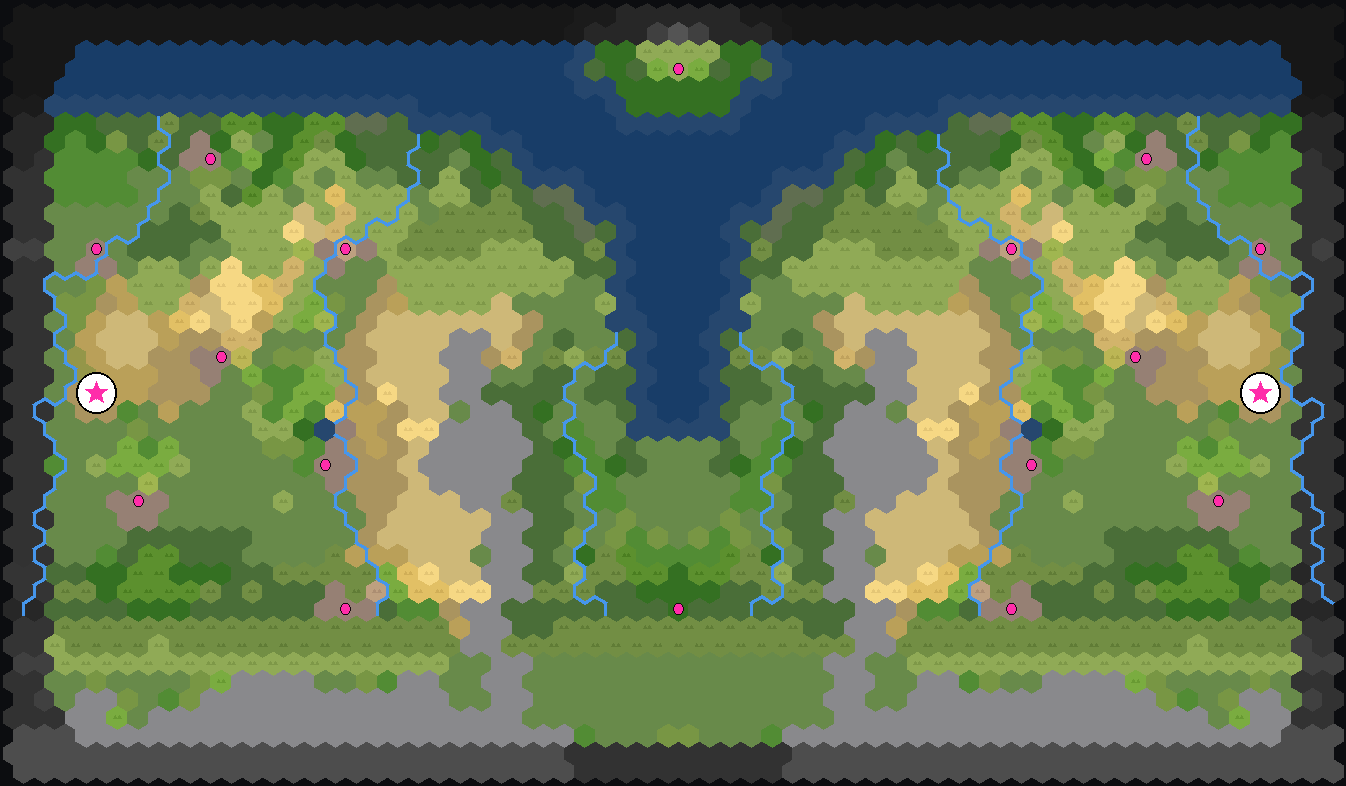
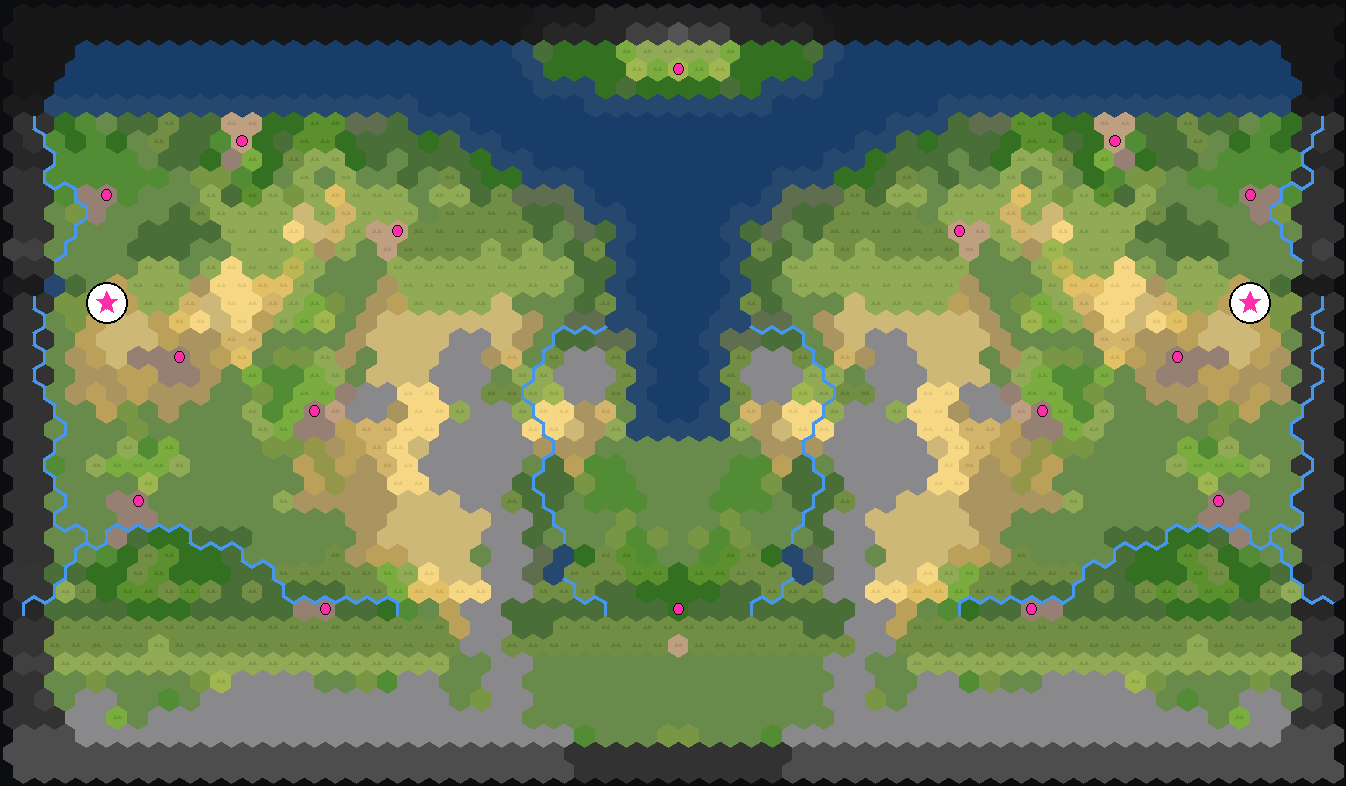
2.5x-wide half-island; over-budget tribe sites shed to free, not barb
The volcano half-island now stretches 2.5x across (R 2.7-3.0, ~54-65
tiles, spanning 13-16 columns of the sea edge); the moat's outer shell
re-balanced so the land-to-land gap stays >= 6 in every direction.
When a high site count pushes the side tribes over the game's
~2-settlements-per-tribe budget, the extra sites are now shed to FREE
instead of barbarian, keeping the mirrored 2-start/2-free/4-barb layout.

diff --git a/atlas/index.html b/atlas/index.html
@@ -34,7 +34,7 @@ h1 { margin: 0 0 4px; font: 600 18px/1.2 ui-monospace, Menlo, monospace;
 <header><h1>Caldera Bay — Climate Atlas</h1>
 <div class="sub">8 Mediterranean · 8 Temperate · 8 Northern (same seeds 1–8 per regime) ·
 <code>Climate (latitude)</code> map option</div></header>
-<h2 class="section">Mediterranean (warm) — 8 gens</h2><div class="grid"><div class="card"><img src="maps/Caldera_Bay_smallest_Mediterranean-1.png" loading="lazy"><div class="meta"><div class="seed">seed Mediterranean-1</div><div class="chips"><span class="chip">64×43</span><span class="chip">12% flat-lush</span><span class="chip">water 667</span><span class="chip">mtn 387</span><span class="chip bad">rivers 192</span><span class="chip bad">forest 407</span><span class="chip ok">2 starts</span><span class="chip ok">mirror-sym</span><span class="chip">sites 18</span><span class="chip">tribes 12</span><span class="chip">res 112</span></div></div></div><div class="card"><img src="maps/Caldera_Bay_smallest_Mediterranean-2.png" loading="lazy"><div class="meta"><div class="seed">seed Mediterranean-2</div><div class="chips"><span class="chip">64×43</span><span class="chip">10% flat-lush</span><span class="chip">water 543</span><span class="chip">mtn 323</span><span class="chip bad">rivers 198</span><span class="chip bad">forest 383</span><span class="chip ok">2 starts</span><span class="chip ok">mirror-sym</span><span class="chip">sites 16</span><span class="chip">tribes 12</span><span class="chip">res 93</span></div></div></div><div class="card"><img src="maps/Caldera_Bay_smallest_Mediterranean-3.png" loading="lazy"><div class="meta"><div class="seed">seed Mediterranean-3</div><div class="chips"><span class="chip">64×43</span><span class="chip">16% flat-lush</span><span class="chip">water 592</span><span class="chip">mtn 273</span><span class="chip bad">rivers 165</span><span class="chip bad">forest 303</span><span class="chip ok">2 starts</span><span class="chip ok">mirror-sym</span><span class="chip">sites 14</span><span class="chip">tribes 10</span><span class="chip">res 97</span></div></div></div><div class="card"><img src="maps/Caldera_Bay_smallest_Mediterranean-4.png" loading="lazy"><div class="meta"><div class="seed">seed Mediterranean-4</div><div class="chips"><span class="chip">64×43</span><span class="chip">12% flat-lush</span><span class="chip">water 504</span><span class="chip">mtn 345</span><span class="chip bad">rivers 224</span><span class="chip bad">forest 395</span><span class="chip ok">2 starts</span><span class="chip ok">mirror-sym</span><span class="chip">sites 18</span><span class="chip">tribes 12</span><span class="chip">res 100</span></div></div></div><div class="card"><img src="maps/Caldera_Bay_smallest_Mediterranean-5.png" loading="lazy"><div class="meta"><div class="seed">seed Mediterranean-5</div><div class="chips"><span class="chip">64×43</span><span class="chip">9% flat-lush</span><span class="chip">water 597</span><span class="chip">mtn 377</span><span class="chip bad">rivers 262</span><span class="chip bad">forest 399</span><span class="chip ok">2 starts</span><span class="chip ok">mirror-sym</span><span class="chip">sites 14</span><span class="chip">tribes 10</span><span class="chip">res 123</span></div></div></div><div class="card"><img src="maps/Caldera_Bay_smallest_Mediterranean-6.png" loading="lazy"><div class="meta"><div class="seed">seed Mediterranean-6</div><div class="chips"><span class="chip">64×43</span><span class="chip">10% flat-lush</span><span class="chip">water 536</span><span class="chip">mtn 271</span><span class="chip bad">rivers 192</span><span class="chip bad">forest 361</span><span class="chip ok">2 starts</span><span class="chip ok">mirror-sym</span><span class="chip">sites 16</span><span class="chip">tribes 12</span><span class="chip">res 110</span></div></div></div><div class="card"><img src="maps/Caldera_Bay_smallest_Mediterranean-7.png" loading="lazy"><div class="meta"><div class="seed">seed Mediterranean-7</div><div class="chips"><span class="chip">64×43</span><span class="chip">15% flat-lush</span><span class="chip">water 547</span><span class="chip">mtn 261</span><span class="chip bad">rivers 183</span><span class="chip bad">forest 357</span><span class="chip ok">2 starts</span><span class="chip ok">mirror-sym</span><span class="chip">sites 18</span><span class="chip">tribes 12</span><span class="chip">res 112</span></div></div></div><div class="card"><img src="maps/Caldera_Bay_smallest_Mediterranean-8.png" loading="lazy"><div class="meta"><div class="seed">seed Mediterranean-8</div><div class="chips"><span class="chip">64×43</span><span class="chip">12% flat-lush</span><span class="chip">water 608</span><span class="chip">mtn 328</span><span class="chip bad">rivers 231</span><span class="chip bad">forest 308</span><span class="chip ok">2 starts</span><span class="chip ok">mirror-sym</span><span class="chip">sites 16</span><span class="chip">tribes 12</span><span class="chip">res 104</span></div></div></div></div><h2 class="section">Temperate — 8 gens</h2><div class="grid"><div class="card"><img src="maps/Caldera_Bay_smallest_Temperate-1.png" loading="lazy"><div class="meta"><div class="seed">seed Temperate-1</div><div class="chips"><span class="chip">64×43</span><span class="chip">11% flat-lush</span><span class="chip">water 667</span><span class="chip">mtn 389</span><span class="chip bad">rivers 192</span><span class="chip bad">forest 433</span><span class="chip ok">2 starts</span><span class="chip ok">mirror-sym</span><span class="chip">sites 18</span><span class="chip">tribes 12</span><span class="chip">res 108</span></div></div></div><div class="card"><img src="maps/Caldera_Bay_smallest_Temperate-2.png" loading="lazy"><div class="meta"><div class="seed">seed Temperate-2</div><div class="chips"><span class="chip">64×43</span><span class="chip">12% flat-lush</span><span class="chip">water 543</span><span class="chip">mtn 323</span><span class="chip bad">rivers 198</span><span class="chip bad">forest 480</span><span class="chip ok">2 starts</span><span class="chip ok">mirror-sym</span><span class="chip">sites 16</span><span class="chip">tribes 12</span><span class="chip">res 129</span></div></div></div><div class="card"><img src="maps/Caldera_Bay_smallest_Temperate-3.png" loading="lazy"><div class="meta"><div class="seed">seed Temperate-3</div><div class="chips"><span class="chip">64×43</span><span class="chip">16% flat-lush</span><span class="chip">water 592</span><span class="chip">mtn 271</span><span class="chip bad">rivers 165</span><span class="chip bad">forest 315</span><span class="chip ok">2 starts</span><span class="chip ok">mirror-sym</span><span class="chip">sites 14</span><span class="chip">tribes 10</span><span class="chip">res 108</span></div></div></div><div class="card"><img src="maps/Caldera_Bay_smallest_Temperate-4.png" loading="lazy"><div class="meta"><div class="seed">seed Temperate-4</div><div class="chips"><span class="chip">64×43</span><span class="chip">13% flat-lush</span><span class="chip">water 504</span><span class="chip">mtn 345</span><span class="chip bad">rivers 224</span><span class="chip bad">forest 428</span><span class="chip ok">2 starts</span><span class="chip ok">mirror-sym</span><span class="chip">sites 16</span><span class="chip">tribes 12</span><span class="chip">res 122</span></div></div></div><div class="card"><img src="maps/Caldera_Bay_smallest_Temperate-5.png" loading="lazy"><div class="meta"><div class="seed">seed Temperate-5</div><div class="chips"><span class="chip">64×43</span><span class="chip">9% flat-lush</span><span class="chip">water 597</span><span class="chip">mtn 377</span><span class="chip bad">rivers 262</span><span class="chip bad">forest 468</span><span class="chip ok">2 starts</span><span class="chip ok">mirror-sym</span><span class="chip">sites 18</span><span class="chip">tribes 12</span><span class="chip">res 98</span></div></div></div><div class="card"><img src="maps/Caldera_Bay_smallest_Temperate-6.png" loading="lazy"><div class="meta"><div class="seed">seed Temperate-6</div><div class="chips"><span class="chip">64×43</span><span class="chip">11% flat-lush</span><span class="chip">water 536</span><span class="chip">mtn 271</span><span class="chip bad">rivers 192</span><span class="chip bad">forest 374</span><span class="chip ok">2 starts</span><span class="chip ok">mirror-sym</span><span class="chip">sites 16</span><span class="chip">tribes 12</span><span class="chip">res 106</span></div></div></div><div class="card"><img src="maps/Caldera_Bay_smallest_Temperate-7.png" loading="lazy"><div class="meta"><div class="seed">seed Temperate-7</div><div class="chips"><span class="chip">64×43</span><span class="chip">16% flat-lush</span><span class="chip">water 547</span><span class="chip">mtn 261</span><span class="chip bad">rivers 183</span><span class="chip bad">forest 371</span><span class="chip ok">2 starts</span><span class="chip ok">mirror-sym</span><span class="chip">sites 16</span><span class="chip">tribes 12</span><span class="chip">res 116</span></div></div></div><div class="card"><img src="maps/Caldera_Bay_smallest_Temperate-8.png" loading="lazy"><div class="meta"><div class="seed">seed Temperate-8</div><div class="chips"><span class="chip">64×43</span><span class="chip">13% flat-lush</span><span class="chip">water 608</span><span class="chip">mtn 328</span><span class="chip bad">rivers 231</span><span class="chip bad">forest 372</span><span class="chip ok">2 starts</span><span class="chip ok">mirror-sym</span><span class="chip">sites 18</span><span class="chip">tribes 12</span><span class="chip">res 107</span></div></div></div></div><h2 class="section">Northern (cold) — 8 gens</h2><div class="grid"><div class="card"><img src="maps/Caldera_Bay_smallest_Northern-1.png" loading="lazy"><div class="meta"><div class="seed">seed Northern-1</div><div class="chips"><span class="chip">64×43</span><span class="chip">11% flat-lush</span><span class="chip">water 667</span><span class="chip">mtn 383</span><span class="chip bad">rivers 192</span><span class="chip bad">forest 436</span><span class="chip ok">2 starts</span><span class="chip ok">mirror-sym</span><span class="chip">sites 18</span><span class="chip">tribes 12</span><span class="chip">res 99</span></div></div></div><div class="card"><img src="maps/Caldera_Bay_smallest_Northern-2.png" loading="lazy"><div class="meta"><div class="seed">seed Northern-2</div><div class="chips"><span class="chip">64×43</span><span class="chip">7% flat-lush</span><span class="chip">water 543</span><span class="chip">mtn 323</span><span class="chip bad">rivers 198</span><span class="chip bad">forest 446</span><span class="chip ok">2 starts</span><span class="chip ok">mirror-sym</span><span class="chip">sites 18</span><span class="chip">tribes 12</span><span class="chip">res 121</span></div></div></div><div class="card"><img src="maps/Caldera_Bay_smallest_Northern-3.png" loading="lazy"><div class="meta"><div class="seed">seed Northern-3</div><div class="chips"><span class="chip">64×43</span><span class="chip">16% flat-lush</span><span class="chip">water 592</span><span class="chip">mtn 273</span><span class="chip bad">rivers 165</span><span class="chip bad">forest 313</span><span class="chip ok">2 starts</span><span class="chip ok">mirror-sym</span><span class="chip">sites 14</span><span class="chip">tribes 10</span><span class="chip">res 101</span></div></div></div><div class="card"><img src="maps/Caldera_Bay_smallest_Northern-4.png" loading="lazy"><div class="meta"><div class="seed">seed Northern-4</div><div class="chips"><span class="chip">64×43</span><span class="chip">12% flat-lush</span><span class="chip">water 504</span><span class="chip">mtn 345</span><span class="chip bad">rivers 224</span><span class="chip bad">forest 421</span><span class="chip ok">2 starts</span><span class="chip ok">mirror-sym</span><span class="chip">sites 14</span><span class="chip">tribes 10</span><span class="chip">res 102</span></div></div></div><div class="card"><img src="maps/Caldera_Bay_smallest_Northern-5.png" loading="lazy"><div class="meta"><div class="seed">seed Northern-5</div><div class="chips"><span class="chip">64×43</span><span class="chip">9% flat-lush</span><span class="chip">water 597</span><span class="chip">mtn 377</span><span class="chip bad">rivers 262</span><span class="chip bad">forest 462</span><span class="chip ok">2 starts</span><span class="chip ok">mirror-sym</span><span class="chip">sites 14</span><span class="chip">tribes 10</span><span class="chip">res 117</span></div></div></div><div class="card"><img src="maps/Caldera_Bay_smallest_Northern-6.png" loading="lazy"><div class="meta"><div class="seed">seed Northern-6</div><div class="chips"><span class="chip">64×43</span><span class="chip">10% flat-lush</span><span class="chip">water 536</span><span class="chip">mtn 271</span><span class="chip bad">rivers 192</span><span class="chip bad">forest 381</span><span class="chip ok">2 starts</span><span class="chip ok">mirror-sym</span><span class="chip">sites 18</span><span class="chip">tribes 12</span><span class="chip">res 113</span></div></div></div><div class="card"><img src="maps/Caldera_Bay_smallest_Northern-7.png" loading="lazy"><div class="meta"><div class="seed">seed Northern-7</div><div class="chips"><span class="chip">64×43</span><span class="chip">15% flat-lush</span><span class="chip">water 547</span><span class="chip">mtn 261</span><span class="chip bad">rivers 183</span><span class="chip bad">forest 374</span><span class="chip ok">2 starts</span><span class="chip ok">mirror-sym</span><span class="chip">sites 18</span><span class="chip">tribes 12</span><span class="chip">res 122</span></div></div></div><div class="card"><img src="maps/Caldera_Bay_smallest_Northern-8.png" loading="lazy"><div class="meta"><div class="seed">seed Northern-8</div><div class="chips"><span class="chip">64×43</span><span class="chip">11% flat-lush</span><span class="chip">water 608</span><span class="chip">mtn 332</span><span class="chip bad">rivers 231</span><span class="chip bad">forest 359</span><span class="chip ok">2 starts</span><span class="chip ok">mirror-sym</span><span class="chip">sites 16</span><span class="chip">tribes 10</span><span class="chip">res 106</span></div></div></div></div>
+<h2 class="section">Mediterranean (warm) — 8 gens</h2><div class="grid"><div class="card"><img src="maps/Caldera_Bay_smallest_Mediterranean-1.png" loading="lazy"><div class="meta"><div class="seed">seed Mediterranean-1</div><div class="chips"><span class="chip">64×43</span><span class="chip">11% flat-lush</span><span class="chip">water 662</span><span class="chip">mtn 373</span><span class="chip bad">rivers 192</span><span class="chip bad">forest 393</span><span class="chip ok">2 starts</span><span class="chip ok">mirror-sym</span><span class="chip">sites 16</span><span class="chip">tribes 12</span><span class="chip">res 101</span></div></div></div><div class="card"><img src="maps/Caldera_Bay_smallest_Mediterranean-2.png" loading="lazy"><div class="meta"><div class="seed">seed Mediterranean-2</div><div class="chips"><span class="chip">64×43</span><span class="chip">10% flat-lush</span><span class="chip">water 530</span><span class="chip">mtn 341</span><span class="chip bad">rivers 173</span><span class="chip bad">forest 376</span><span class="chip ok">2 starts</span><span class="chip ok">mirror-sym</span><span class="chip">sites 14</span><span class="chip">tribes 10</span><span class="chip">res 113</span></div></div></div><div class="card"><img src="maps/Caldera_Bay_smallest_Mediterranean-3.png" loading="lazy"><div class="meta"><div class="seed">seed Mediterranean-3</div><div class="chips"><span class="chip">64×43</span><span class="chip">15% flat-lush</span><span class="chip">water 576</span><span class="chip">mtn 261</span><span class="chip bad">rivers 184</span><span class="chip bad">forest 285</span><span class="chip ok">2 starts</span><span class="chip ok">mirror-sym</span><span class="chip">sites 14</span><span class="chip">tribes 10</span><span class="chip">res 90</span></div></div></div><div class="card"><img src="maps/Caldera_Bay_smallest_Mediterranean-4.png" loading="lazy"><div class="meta"><div class="seed">seed Mediterranean-4</div><div class="chips"><span class="chip">64×43</span><span class="chip">11% flat-lush</span><span class="chip">water 502</span><span class="chip">mtn 369</span><span class="chip bad">rivers 174</span><span class="chip bad">forest 391</span><span class="chip ok">2 starts</span><span class="chip ok">mirror-sym</span><span class="chip">sites 18</span><span class="chip">tribes 12</span><span class="chip">res 114</span></div></div></div><div class="card"><img src="maps/Caldera_Bay_smallest_Mediterranean-5.png" loading="lazy"><div class="meta"><div class="seed">seed Mediterranean-5</div><div class="chips"><span class="chip">64×43</span><span class="chip">9% flat-lush</span><span class="chip">water 583</span><span class="chip">mtn 367</span><span class="chip bad">rivers 259</span><span class="chip bad">forest 422</span><span class="chip ok">2 starts</span><span class="chip ok">mirror-sym</span><span class="chip">sites 14</span><span class="chip">tribes 10</span><span class="chip">res 117</span></div></div></div><div class="card"><img src="maps/Caldera_Bay_smallest_Mediterranean-6.png" loading="lazy"><div class="meta"><div class="seed">seed Mediterranean-6</div><div class="chips"><span class="chip">64×43</span><span class="chip">11% flat-lush</span><span class="chip">water 521</span><span class="chip">mtn 271</span><span class="chip bad">rivers 210</span><span class="chip bad">forest 333</span><span class="chip ok">2 starts</span><span class="chip ok">mirror-sym</span><span class="chip">sites 18</span><span class="chip">tribes 12</span><span class="chip">res 133</span></div></div></div><div class="card"><img src="maps/Caldera_Bay_smallest_Mediterranean-7.png" loading="lazy"><div class="meta"><div class="seed">seed Mediterranean-7</div><div class="chips"><span class="chip">64×43</span><span class="chip">16% flat-lush</span><span class="chip">water 524</span><span class="chip">mtn 265</span><span class="chip bad">rivers 205</span><span class="chip bad">forest 366</span><span class="chip ok">2 starts</span><span class="chip ok">mirror-sym</span><span class="chip">sites 16</span><span class="chip">tribes 12</span><span class="chip">res 128</span></div></div></div><div class="card"><img src="maps/Caldera_Bay_smallest_Mediterranean-8.png" loading="lazy"><div class="meta"><div class="seed">seed Mediterranean-8</div><div class="chips"><span class="chip">64×43</span><span class="chip">13% flat-lush</span><span class="chip">water 591</span><span class="chip">mtn 310</span><span class="chip bad">rivers 208</span><span class="chip bad">forest 326</span><span class="chip ok">2 starts</span><span class="chip ok">mirror-sym</span><span class="chip">sites 14</span><span class="chip">tribes 10</span><span class="chip">res 94</span></div></div></div></div><h2 class="section">Temperate — 8 gens</h2><div class="grid"><div class="card"><img src="maps/Caldera_Bay_smallest_Temperate-1.png" loading="lazy"><div class="meta"><div class="seed">seed Temperate-1</div><div class="chips"><span class="chip">64×43</span><span class="chip">11% flat-lush</span><span class="chip">water 662</span><span class="chip">mtn 385</span><span class="chip bad">rivers 192</span><span class="chip bad">forest 419</span><span class="chip ok">2 starts</span><span class="chip ok">mirror-sym</span><span class="chip">sites 18</span><span class="chip">tribes 12</span><span class="chip">res 107</span></div></div></div><div class="card"><img src="maps/Caldera_Bay_smallest_Temperate-2.png" loading="lazy"><div class="meta"><div class="seed">seed Temperate-2</div><div class="chips"><span class="chip">64×43</span><span class="chip">11% flat-lush</span><span class="chip">water 530</span><span class="chip">mtn 341</span><span class="chip bad">rivers 173</span><span class="chip bad">forest 450</span><span class="chip ok">2 starts</span><span class="chip ok">mirror-sym</span><span class="chip">sites 16</span><span class="chip">tribes 12</span><span class="chip">res 114</span></div></div></div><div class="card"><img src="maps/Caldera_Bay_smallest_Temperate-3.png" loading="lazy"><div class="meta"><div class="seed">seed Temperate-3</div><div class="chips"><span class="chip">64×43</span><span class="chip">15% flat-lush</span><span class="chip">water 576</span><span class="chip">mtn 259</span><span class="chip bad">rivers 184</span><span class="chip bad">forest 318</span><span class="chip ok">2 starts</span><span class="chip ok">mirror-sym</span><span class="chip">sites 16</span><span class="chip">tribes 10</span><span class="chip">res 107</span></div></div></div><div class="card"><img src="maps/Caldera_Bay_smallest_Temperate-4.png" loading="lazy"><div class="meta"><div class="seed">seed Temperate-4</div><div class="chips"><span class="chip">64×43</span><span class="chip">11% flat-lush</span><span class="chip">water 502</span><span class="chip">mtn 369</span><span class="chip bad">rivers 174</span><span class="chip bad">forest 444</span><span class="chip ok">2 starts</span><span class="chip ok">mirror-sym</span><span class="chip">sites 18</span><span class="chip">tribes 12</span><span class="chip">res 116</span></div></div></div><div class="card"><img src="maps/Caldera_Bay_smallest_Temperate-5.png" loading="lazy"><div class="meta"><div class="seed">seed Temperate-5</div><div class="chips"><span class="chip">64×43</span><span class="chip">9% flat-lush</span><span class="chip">water 583</span><span class="chip">mtn 369</span><span class="chip bad">rivers 259</span><span class="chip bad">forest 507</span><span class="chip ok">2 starts</span><span class="chip ok">mirror-sym</span><span class="chip">sites 16</span><span class="chip">tribes 12</span><span class="chip">res 114</span></div></div></div><div class="card"><img src="maps/Caldera_Bay_smallest_Temperate-6.png" loading="lazy"><div class="meta"><div class="seed">seed Temperate-6</div><div class="chips"><span class="chip">64×43</span><span class="chip">11% flat-lush</span><span class="chip">water 521</span><span class="chip">mtn 271</span><span class="chip bad">rivers 210</span><span class="chip bad">forest 358</span><span class="chip ok">2 starts</span><span class="chip ok">mirror-sym</span><span class="chip">sites 18</span><span class="chip">tribes 12</span><span class="chip">res 116</span></div></div></div><div class="card"><img src="maps/Caldera_Bay_smallest_Temperate-7.png" loading="lazy"><div class="meta"><div class="seed">seed Temperate-7</div><div class="chips"><span class="chip">64×43</span><span class="chip">16% flat-lush</span><span class="chip">water 524</span><span class="chip">mtn 265</span><span class="chip bad">rivers 205</span><span class="chip bad">forest 378</span><span class="chip ok">2 starts</span><span class="chip ok">mirror-sym</span><span class="chip">sites 16</span><span class="chip">tribes 12</span><span class="chip">res 123</span></div></div></div><div class="card"><img src="maps/Caldera_Bay_smallest_Temperate-8.png" loading="lazy"><div class="meta"><div class="seed">seed Temperate-8</div><div class="chips"><span class="chip">64×43</span><span class="chip">14% flat-lush</span><span class="chip">water 591</span><span class="chip">mtn 296</span><span class="chip bad">rivers 208</span><span class="chip bad">forest 391</span><span class="chip ok">2 starts</span><span class="chip ok">mirror-sym</span><span class="chip">sites 14</span><span class="chip">tribes 10</span><span class="chip">res 105</span></div></div></div></div><h2 class="section">Northern (cold) — 8 gens</h2><div class="grid"><div class="card"><img src="maps/Caldera_Bay_smallest_Northern-1.png" loading="lazy"><div class="meta"><div class="seed">seed Northern-1</div><div class="chips"><span class="chip">64×43</span><span class="chip">11% flat-lush</span><span class="chip">water 662</span><span class="chip">mtn 377</span><span class="chip bad">rivers 192</span><span class="chip bad">forest 439</span><span class="chip ok">2 starts</span><span class="chip ok">mirror-sym</span><span class="chip">sites 14</span><span class="chip">tribes 10</span><span class="chip">res 89</span></div></div></div><div class="card"><img src="maps/Caldera_Bay_smallest_Northern-2.png" loading="lazy"><div class="meta"><div class="seed">seed Northern-2</div><div class="chips"><span class="chip">64×43</span><span class="chip">8% flat-lush</span><span class="chip">water 530</span><span class="chip">mtn 343</span><span class="chip bad">rivers 173</span><span class="chip bad">forest 450</span><span class="chip ok">2 starts</span><span class="chip ok">mirror-sym</span><span class="chip">sites 16</span><span class="chip">tribes 12</span><span class="chip">res 111</span></div></div></div><div class="card"><img src="maps/Caldera_Bay_smallest_Northern-3.png" loading="lazy"><div class="meta"><div class="seed">seed Northern-3</div><div class="chips"><span class="chip">64×43</span><span class="chip">14% flat-lush</span><span class="chip">water 576</span><span class="chip">mtn 259</span><span class="chip bad">rivers 184</span><span class="chip bad">forest 305</span><span class="chip ok">2 starts</span><span class="chip ok">mirror-sym</span><span class="chip">sites 14</span><span class="chip">tribes 10</span><span class="chip">res 124</span></div></div></div><div class="card"><img src="maps/Caldera_Bay_smallest_Northern-4.png" loading="lazy"><div class="meta"><div class="seed">seed Northern-4</div><div class="chips"><span class="chip">64×43</span><span class="chip">11% flat-lush</span><span class="chip">water 502</span><span class="chip">mtn 369</span><span class="chip bad">rivers 174</span><span class="chip bad">forest 420</span><span class="chip ok">2 starts</span><span class="chip ok">mirror-sym</span><span class="chip">sites 18</span><span class="chip">tribes 12</span><span class="chip">res 108</span></div></div></div><div class="card"><img src="maps/Caldera_Bay_smallest_Northern-5.png" loading="lazy"><div class="meta"><div class="seed">seed Northern-5</div><div class="chips"><span class="chip">64×43</span><span class="chip">9% flat-lush</span><span class="chip">water 583</span><span class="chip">mtn 367</span><span class="chip bad">rivers 259</span><span class="chip bad">forest 458</span><span class="chip ok">2 starts</span><span class="chip ok">mirror-sym</span><span class="chip">sites 16</span><span class="chip">tribes 12</span><span class="chip">res 113</span></div></div></div><div class="card"><img src="maps/Caldera_Bay_smallest_Northern-6.png" loading="lazy"><div class="meta"><div class="seed">seed Northern-6</div><div class="chips"><span class="chip">64×43</span><span class="chip">11% flat-lush</span><span class="chip">water 521</span><span class="chip">mtn 271</span><span class="chip bad">rivers 210</span><span class="chip bad">forest 354</span><span class="chip ok">2 starts</span><span class="chip ok">mirror-sym</span><span class="chip">sites 18</span><span class="chip">tribes 12</span><span class="chip">res 116</span></div></div></div><div class="card"><img src="maps/Caldera_Bay_smallest_Northern-7.png" loading="lazy"><div class="meta"><div class="seed">seed Northern-7</div><div class="chips"><span class="chip">64×43</span><span class="chip">15% flat-lush</span><span class="chip">water 524</span><span class="chip">mtn 265</span><span class="chip bad">rivers 205</span><span class="chip bad">forest 376</span><span class="chip ok">2 starts</span><span class="chip ok">mirror-sym</span><span class="chip">sites 16</span><span class="chip">tribes 12</span><span class="chip">res 116</span></div></div></div><div class="card"><img src="maps/Caldera_Bay_smallest_Northern-8.png" loading="lazy"><div class="meta"><div class="seed">seed Northern-8</div><div class="chips"><span class="chip">64×43</span><span class="chip">12% flat-lush</span><span class="chip">water 591</span><span class="chip">mtn 308</span><span class="chip bad">rivers 208</span><span class="chip bad">forest 361</span><span class="chip ok">2 starts</span><span class="chip ok">mirror-sym</span><span class="chip">sites 18</span><span class="chip">tribes 10</span><span class="chip">res 118</span></div></div></div></div>
 <div id="lb"><img alt=""></div>
 <script>
 const lb = document.getElementById('lb'), lbimg = lb.querySelector('img');

diff --git a/src/CalderaBay.cs b/src/CalderaBay.cs
@@ -259,7 +259,7 @@ namespace OwMapCreation
             // out of the ocean at the map border (clipped by it — not a complete
             // island), still sea-locked from the mainland by a guaranteed
             // water ring on its inland side.
-            mIslandR = 3.0 + random.Next(6) / 10.0;          // 3.0–3.5
+            mIslandR = 2.7 + random.Next(4) / 10.0;          // 2.7–3.0 (×2.5 across)
             int islandD = 2;                                 // centre 2 rows off the edge
 
             // WANDERING spur seed-lines: per-row drift so the locked seeds aren't
@@ -347,7 +347,7 @@ namespace OwMapCreation
             mIslandX = W / 2;
             mIslandY = mSeaSouth ? islandD : (H - 1 - islandD);
             int reachY = (int)Math.Ceiling(mIslandR) + 8;
-            int reachX = (int)Math.Ceiling(1.2 * (mIslandR + 6.0)) + 1;
+            int reachX = (int)Math.Ceiling(1.5 * (mIslandR + 6.0)) + 1;
             for (int dy = -reachY; dy <= reachY; dy++)
                 for (int dx = -reachX; dx <= reachX; dx++)
                 {
@@ -357,7 +357,7 @@ namespace OwMapCreation
                     // the moat's outer shell is rounder than the island (the
                     // coast pass turns ANY land-adjacent water to coast, locks
                     // or not — only raw distance to land keeps the gap deep)
-                    double eOut = Math.Sqrt(Math.Pow(dx / 1.2, 2) + (double)dy * dy);
+                    double eOut = Math.Sqrt(Math.Pow(dx / 1.5, 2) + (double)dy * dy);
                     TileData t = GetTile(x, y);
                     if (e <= 1.4)
                         LockLand(t, HILL_HEIGHT, TEMPERATE_TERRAIN);   // volcanic slopes (gold-valid)
@@ -379,7 +379,7 @@ namespace OwMapCreation
 
         private TerrainType T(string z) { return infos.getType<TerrainType>(z); }
         private ResourceType R(string z) { return infos.getType<ResourceType>(z); }
-        private const double ISLAND_SX = 1.5;       // horizontal stretch (a wide cone)
+        private const double ISLAND_SX = 2.5;       // horizontal stretch (a wide cone)
         private double IslandE(int x, int y)        // elliptical "radius" from the core
         {
             double dx = (x - mIslandX) / ISLAND_SX, dy = y - mIslandY;
@@ -1182,9 +1182,11 @@ namespace OwMapCreation
             int named = 2;                                       // highland + island
             for (int i = 0; i < wsites.Count; i++)
                 if (kind[i] == 2 || kind[i] == 3) named += 2;    // site + its mirror
+            // shed to FREE (not barb) so the mirrored 2-barb-per-side layout
+            // holds whatever the site count — extras become neutral expansion
             int budget = 2 * (tribesToUse != null ? tribesToUse.Count : 4);
             for (int i = wsites.Count - 1; i >= 0 && named > budget; i--)
-                if (kind[i] == 2) { role[i] = barbs; kind[i] = 1; named -= 2; }
+                if (kind[i] == 2) { role[i] = null; kind[i] = 0; named -= 2; }
 
             // apply + mirror EXACTLY (same role; side tribe west↔east)
             for (int i = 0; i < wsites.Count; i++)

diff --git a/tests/test_caldera_bay.py b/tests/test_caldera_bay.py
@@ -176,7 +176,7 @@ class CalderaBayMap(unittest.TestCase):
                         continue
                     seen.add((cx, cy)); comp.append((cx, cy))
                     stack.extend(neighbors(cx, cy))
-                if 16 <= len(comp) <= 60 and any(
+                if 16 <= len(comp) <= 75 and any(
                         self.tile(a, b).find("CitySite") is not None for a, b in comp):
                     found = True
         self.assertTrue(found, "the bay island should be small, isolated, and hold a site")
